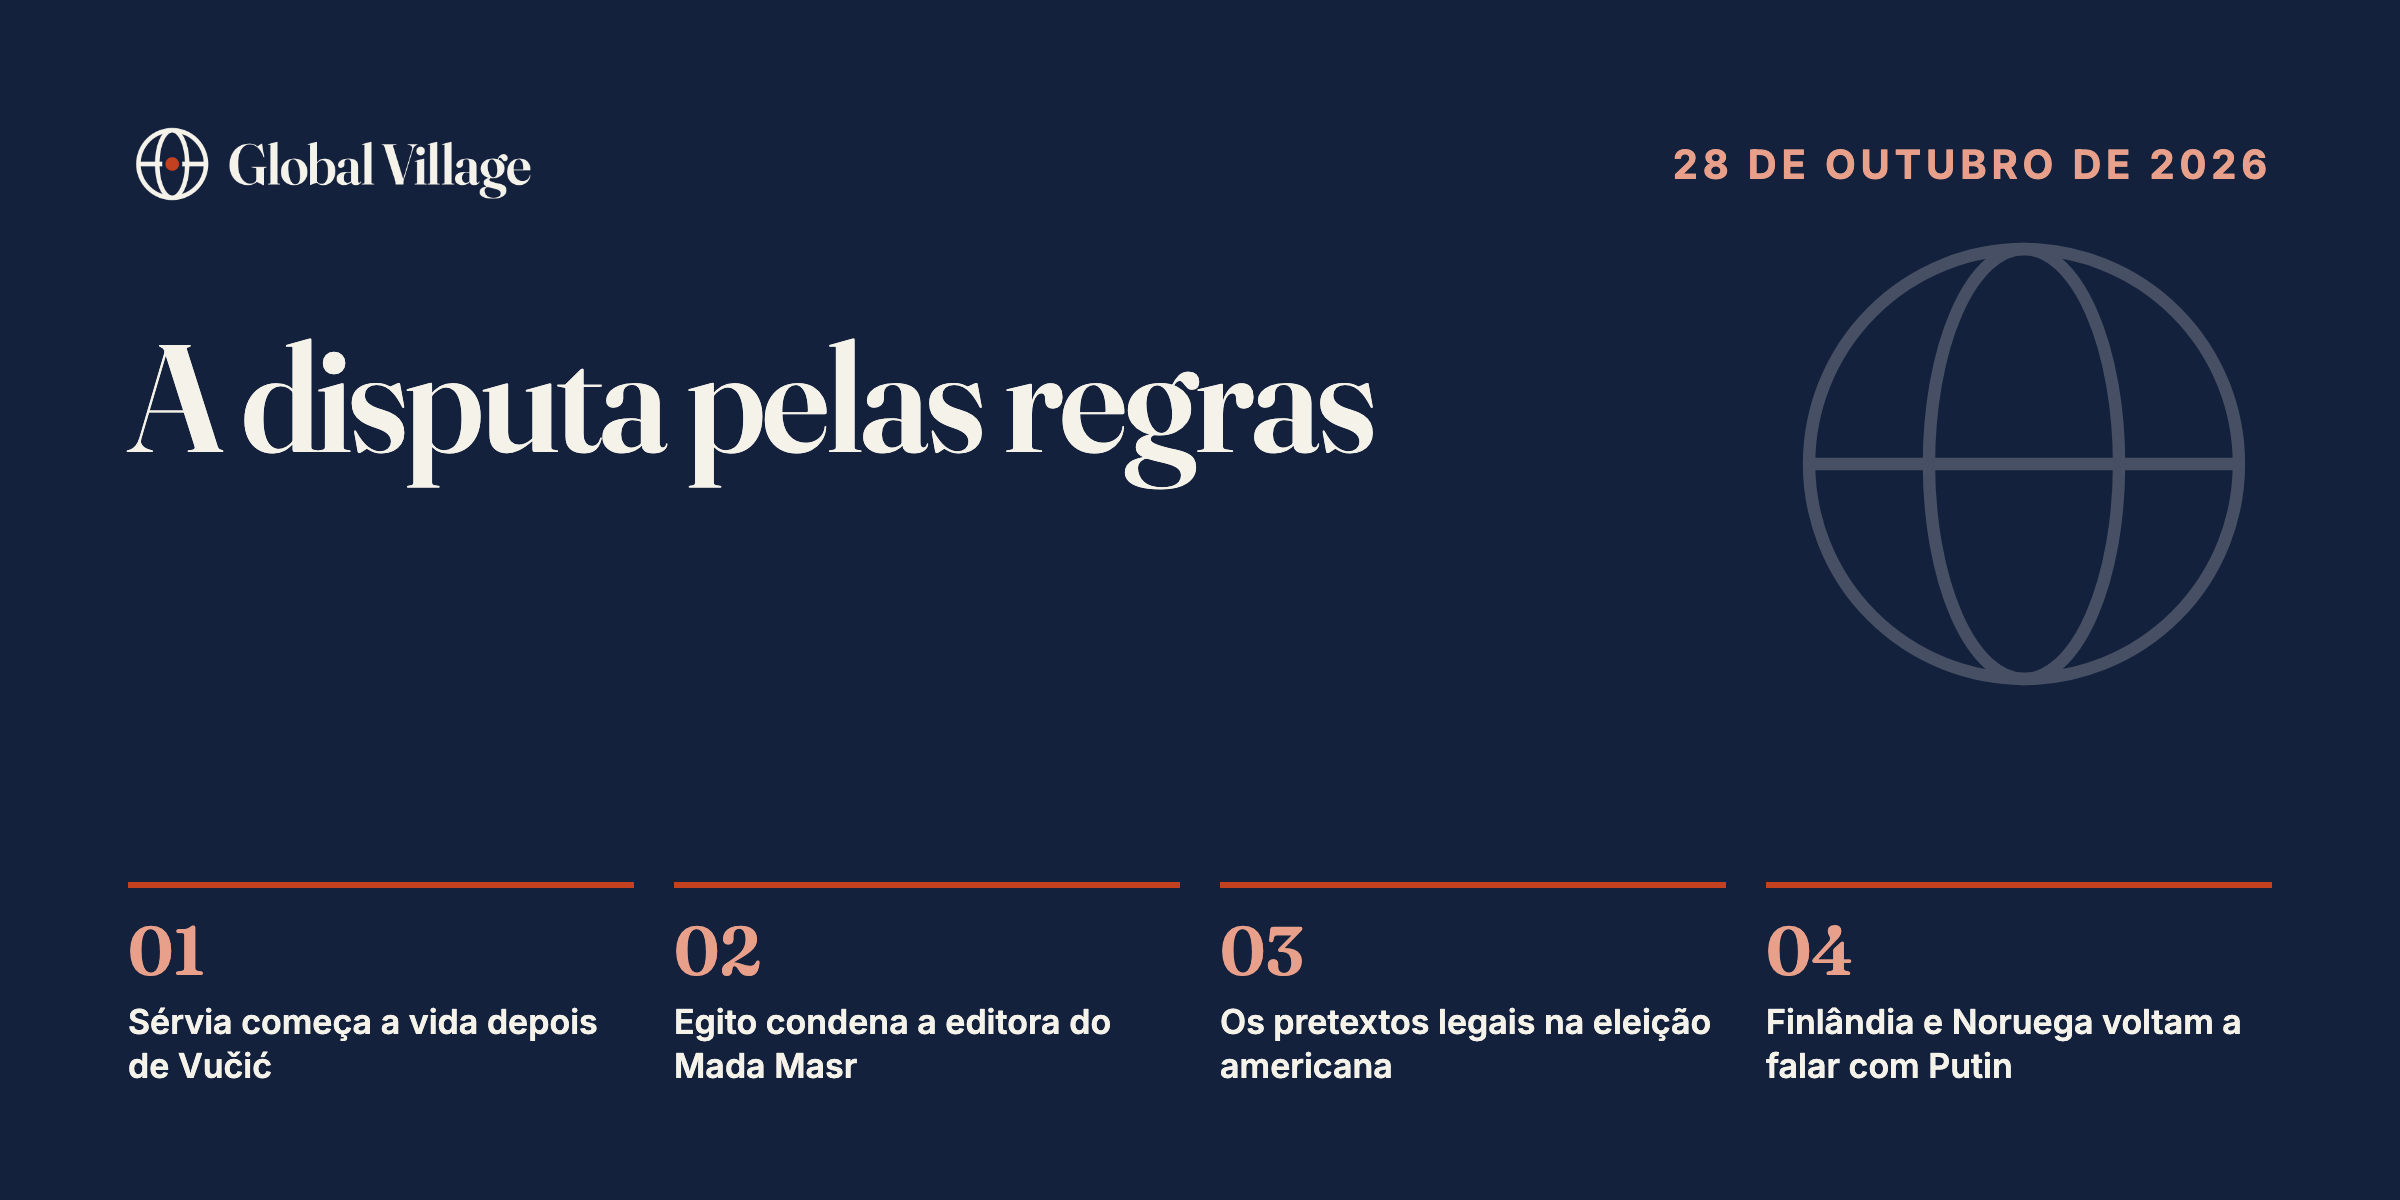
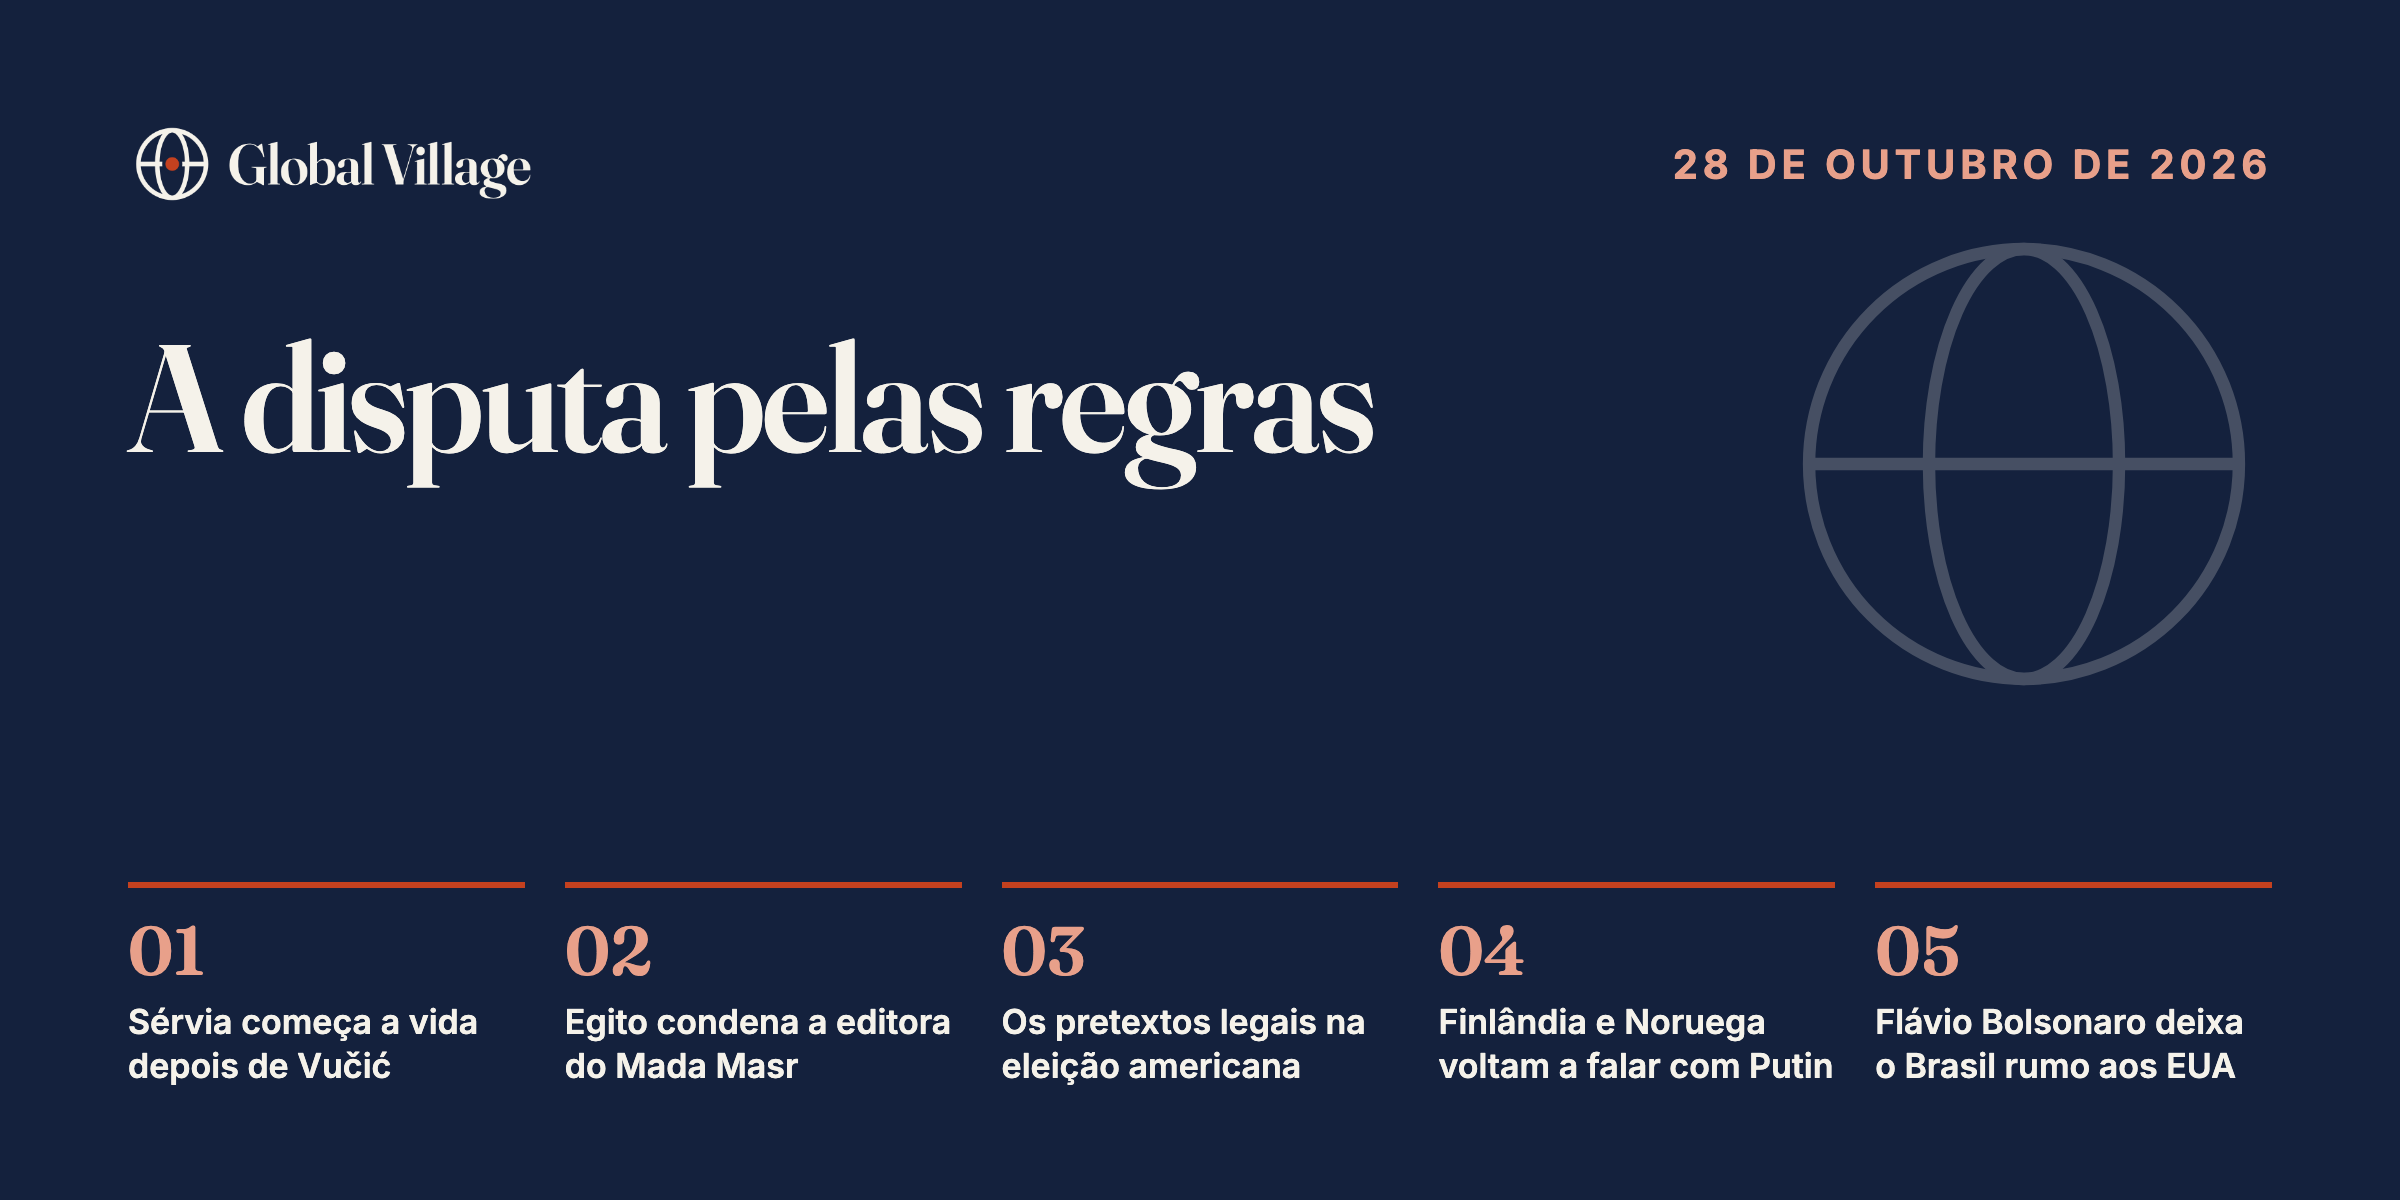
Inclui a saída de Flávio Bolsonaro como quinto fato
Acrescenta a análise de Flávia Tavares (Meio) e a notícia do 14ymedio sobre os vistos americanos, e refaz as imagens da edição com cinco fatos.

Changed region(s): [[0.1875, 0.7708, 0.9375, 0.925], [0.0625, 0.8633, 0.1562, 0.8942]]

diff --git a/index.html b/index.html
@@ -472,6 +472,8 @@ const PEOPLE = [
 ].map(r=>({id:r[0],name:r[1],cat:r[2],area:r[3],cc:r[4],region:regOf(r[4]),org:r[5],lang:r[6],themes:r[7],ch:r[8]}));
 
 const ITEMS = [
+ {id:"meio-flavio-fuga-eua",who:[],by:"Flávia Tavares",theme:"dem",fmt:"text",src:"Meio",date:"2026-10-27",lang:"PT",title:"Flávio Bolsonaro foge para os EUA e abre disputa por liderança na oposição",sum_en:"Flávia Tavares compares Flávio Bolsonaro’s flight to the United States with Jair Bolsonaro’s silence after the 2022 defeat, argues that the son, under investigation for money laundering, holds none of the power his father had, and sees the race to lead the right wide open, with Tarcísio de Freitas in front.",sum:"Flávia Tavares compara a fuga de Flávio Bolsonaro para os Estados Unidos com o silêncio de Jair Bolsonaro depois da derrota de 2022, argumenta que o filho, investigado por lavagem de dinheiro, não tem o poder que o pai tinha e vê aberta a disputa pela liderança da direita, com Tarcísio de Freitas à frente.",url:"https://www.canalmeio.com.br/2026/10/27/flavio-bolsonaro-foge-para-os-eua-e-abre-disputa-por-lideranca-na-oposicao/"},
+ {id:"14ymedio-eua-acolhe-flavio",who:[],theme:"geo",fmt:"text",src:"14ymedio",date:"2026-10-27",lang:"ES",title:"Estados Unidos anuncia que acogerá a Flávio Bolsonaro y a su familia",sum_en:"14ymedio reports that the Trump administration will issue visas to Flávio Bolsonaro and his family even though Brazil’s Federal Police cancelled his passports, and that Trump called Brazil’s election fraudulent.",sum:"O 14ymedio relata que o governo Trump vai conceder vistos a Flávio Bolsonaro e à família, mesmo com os passaportes cancelados pela Polícia Federal, e que Trump chamou a eleição brasileira de fraudulenta.",url:"https://www.14ymedio.com/internacional/estados-unidos-anuncia-acogera-flavio_1_1132510.html"},
  {id:"cpj-egito-mada-masr",who:[],theme:"dem",fmt:"text",src:"Committee to Protect Journalists",date:"2026-10-27",lang:"EN",title:"CPJ outraged by Egypt court conviction of journalist Lina Attalah, order of Mada Masr’s closure",sum_en:"CPJ condemns the conviction of Lina Attalah, editor of the independent outlet Mada Masr, for running an unlicensed website, along with a fine, the order to close the outlet and her detention until the fine is paid, and describes a trial without basic guarantees of defence.",sum:"O CPJ condena a condenação de Lina Attalah, editora do site independente Mada Masr, por manter um site sem licença, com multa, ordem de fechamento do veículo e prisão até que a multa seja paga, e descreve um julgamento sem as garantias básicas de defesa.",url:"https://cpj.org/2026/10/cpj-outraged-by-egypt-court-conviction-of-journalist-lina-attalah-order-of-mada-masrs-closure/"},
  {id:"article19-servia-imprensa",who:[],theme:"dem",fmt:"text",src:"Article 19",date:"2026-10-27",lang:"EN",title:"Serbia: Elections could mark a turning point for media freedom",sum_en:"Article 19 and its partners in the Media Freedom Rapid Response see the Student List’s win and Vučić’s concession after 12 years in power as an opportunity to rebuild media freedom in Serbia.",sum:"A Article 19 e seus parceiros na rede Media Freedom Rapid Response veem na vitória da Lista Estudantil e no reconhecimento da derrota por Vučić, depois de 12 anos no poder, uma oportunidade para reconstruir a liberdade de imprensa na Sérvia.",url:"https://www.article19.org/resources/serbia-elections-could-mark-a-turning-point-for-media-freedom/"},
  {id:"occrp-servia-krik",who:[],theme:"dem",fmt:"text",src:"OCCRP",date:"2026-10-27",lang:"EN",title:"‘Is This Real?’: A Serbian Investigative Journalist Reflects on the Country’s Stunning Election",sum_en:"Stevan Dojčinović, editor of the investigative outlet KRIK, recalls a decade of surveillance, lawsuits and threats under Vučić and says the newsroom can now talk freely, while the hard part of cleaning up the state lies ahead.",sum:"Stevan Dojčinović, editor do site investigativo KRIK, relembra uma década de vigilância, processos e ameaças sob Vučić e conta que a redação agora pode conversar livremente, mas que a parte difícil, limpar o Estado, ainda está por vir.",url:"https://www.occrp.org/en/feature/is-this-real-a-serbian-investigative-journalist-reflects-on-the-countrys-stunning-election"},
